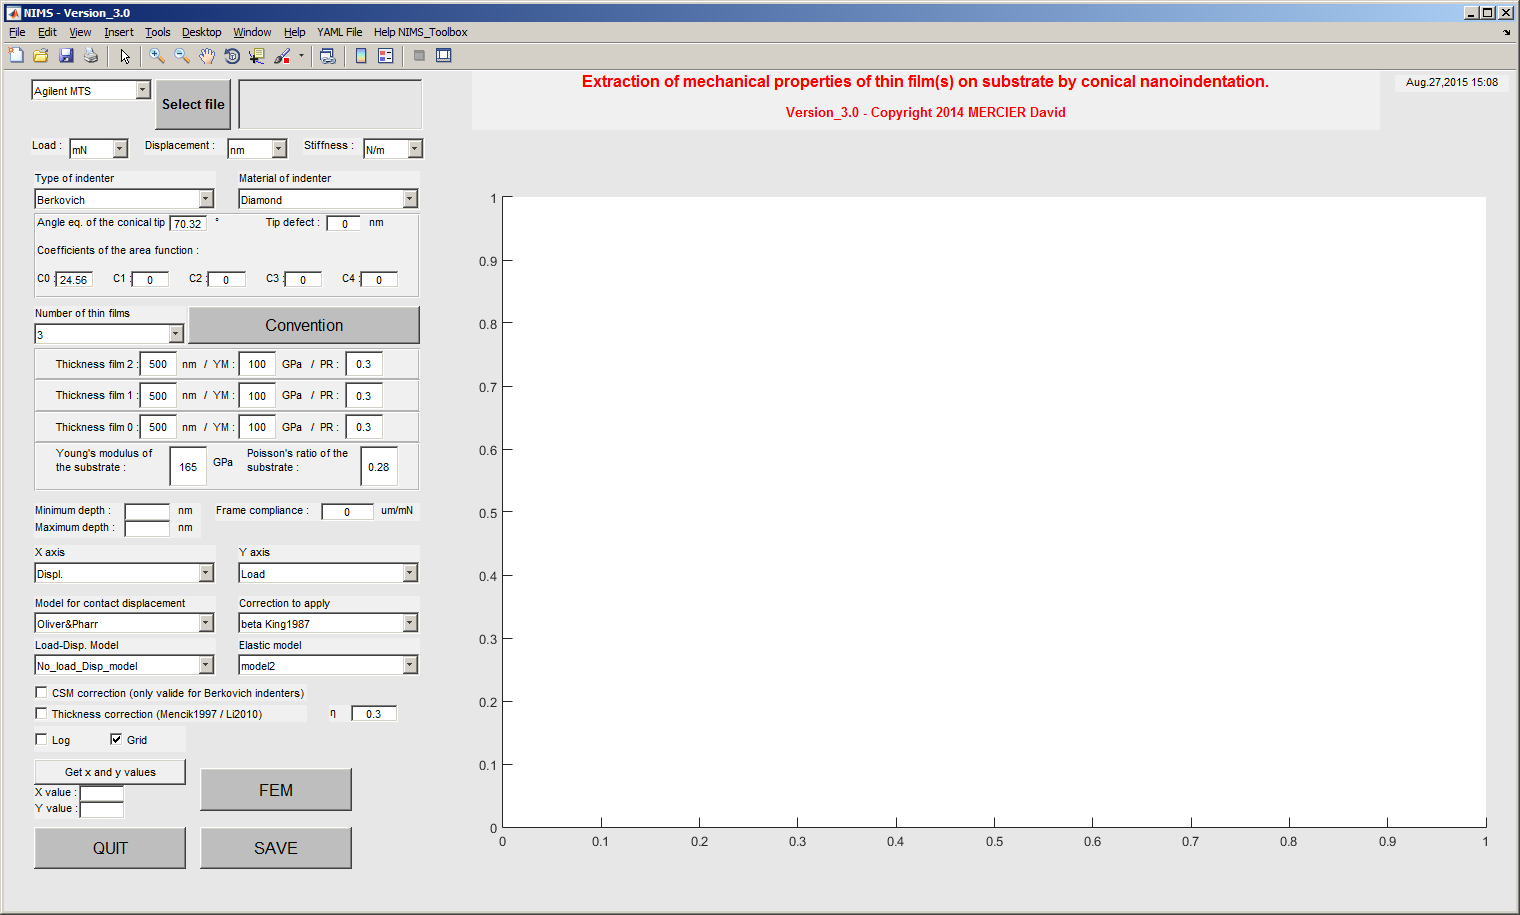
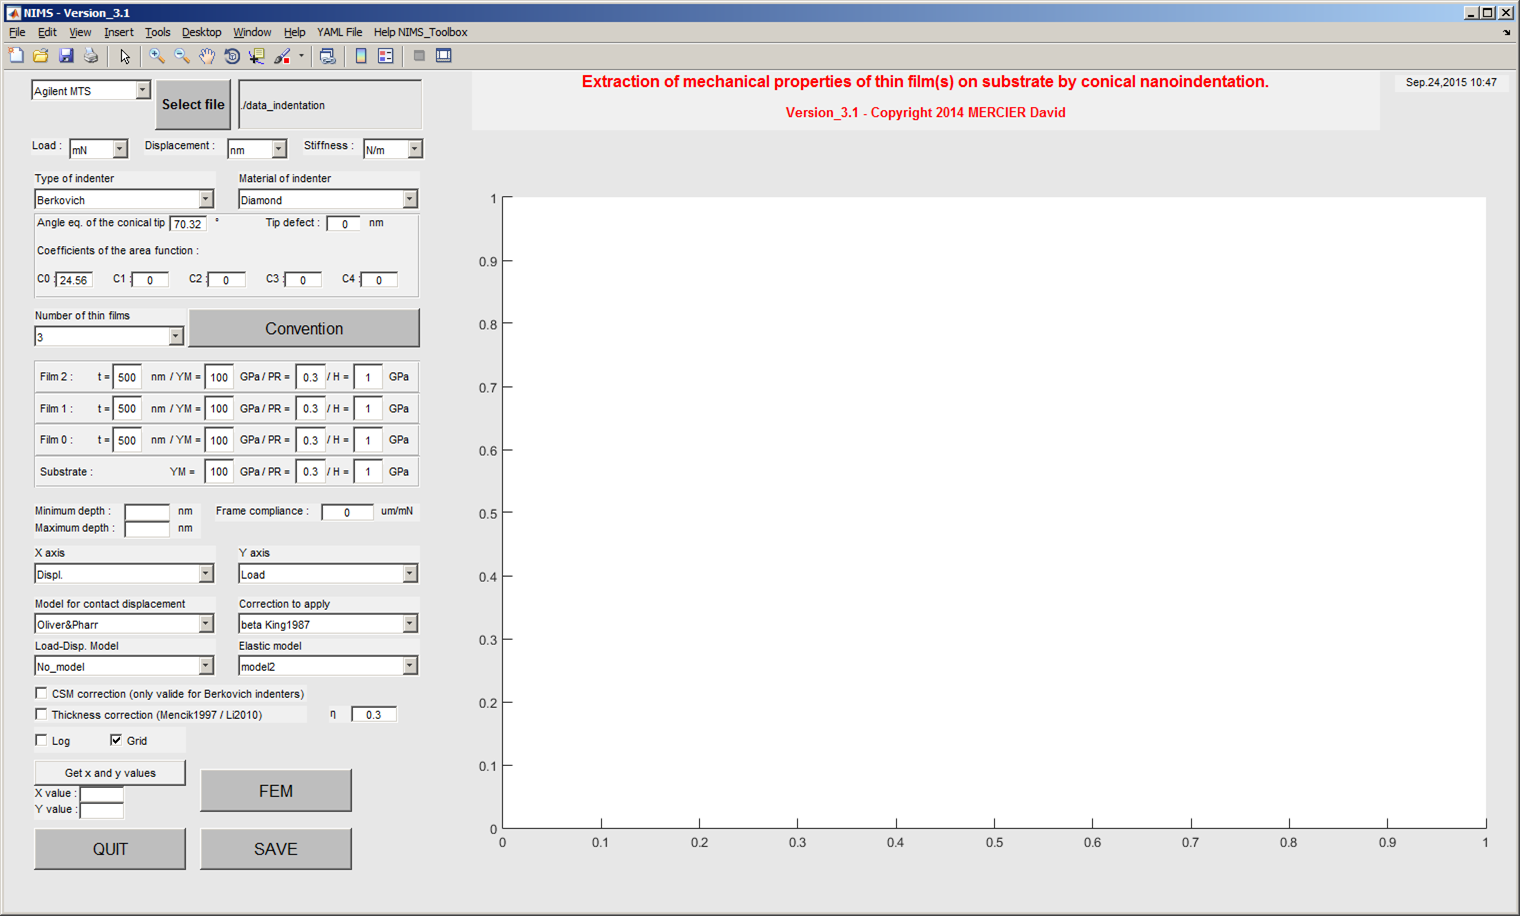
updated pictures from the doc and the version number of the toolbox

diff --git a/demo.m b/demo.m
@@ -26,7 +26,7 @@ end
 
 %% Set Toolbox version and help paths
 gui.config.name_toolbox = 'NIMS';
-gui.config.version_toolbox = '3.0';
+gui.config.version_toolbox = '3.1';
 gui.config.url_help = 'http://nims.readthedocs.org/en/latest/';
 gui.config.pdf_help = 'https://media.readthedocs.org/pdf/nims/latest/nims.pdf';
 
